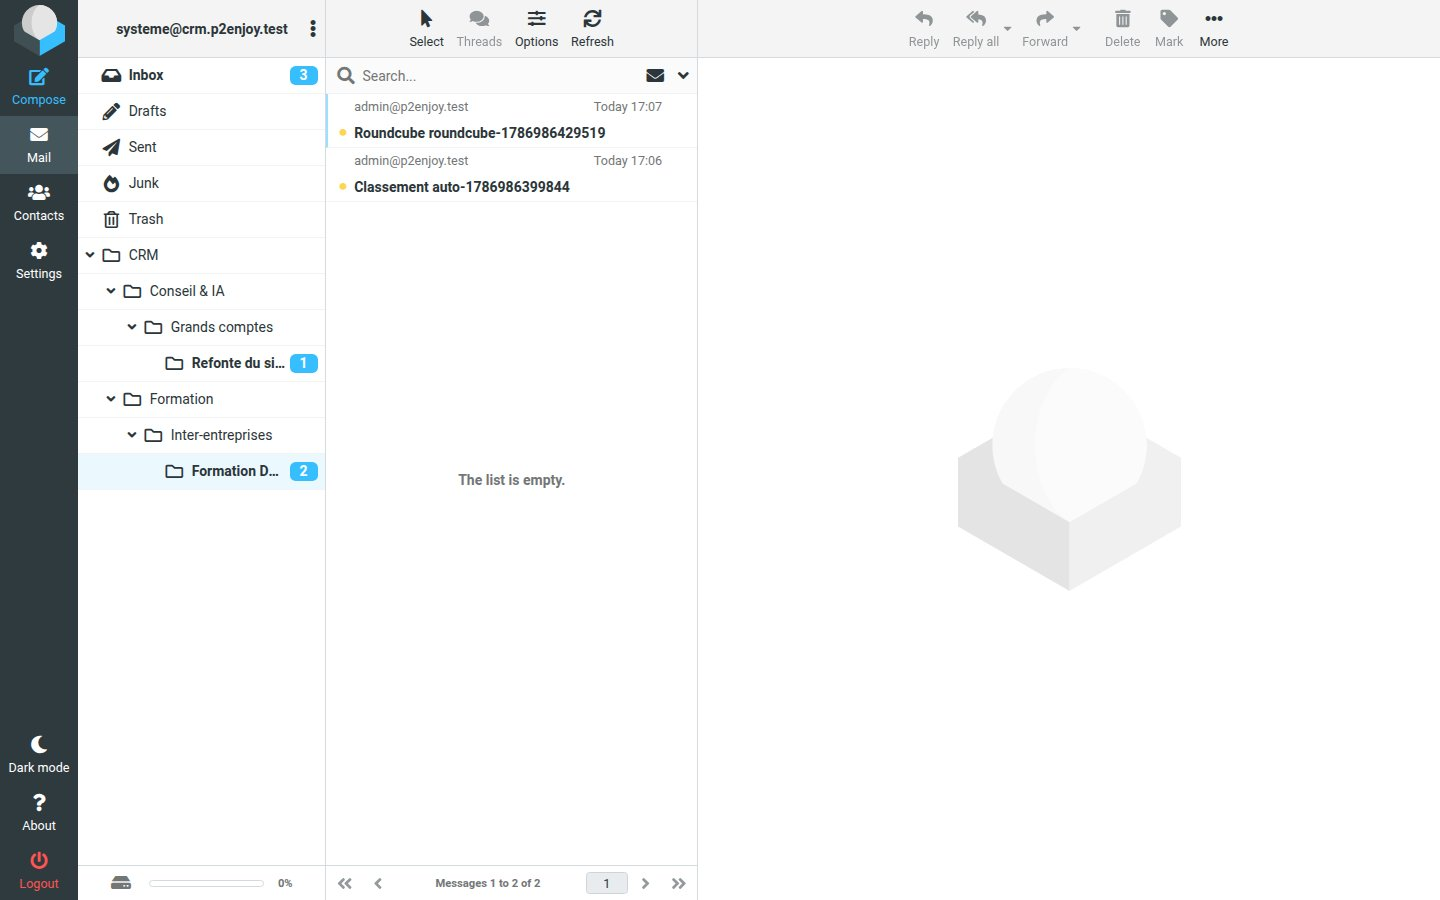
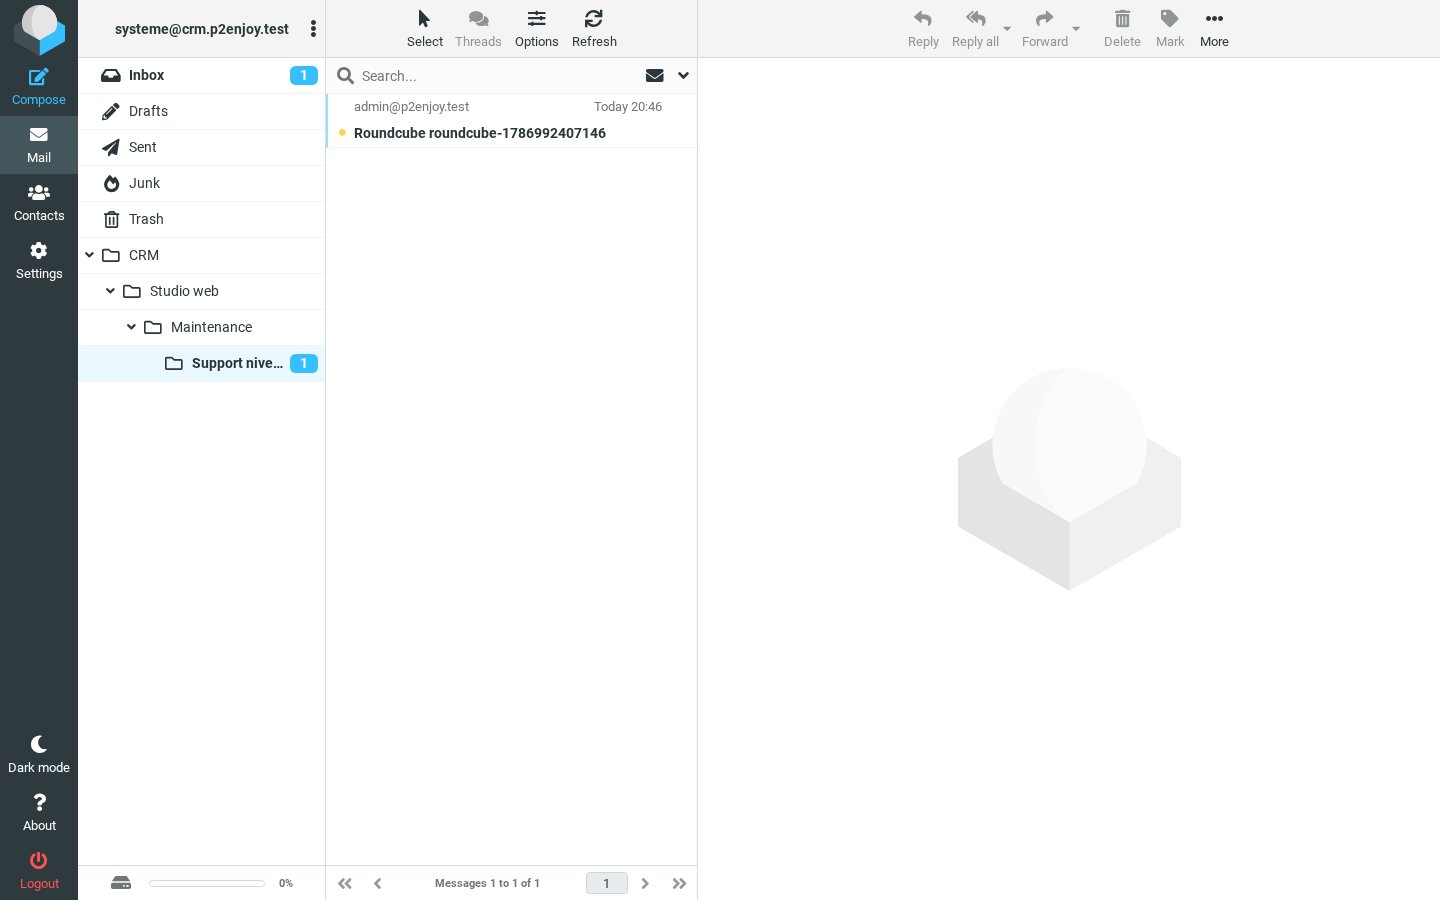
Clôt CRM-056 : sa dette a été soldée par CRM-059, et ses preuves sont vertes
L'unité restait [~] pour un seul écart : la reprise d'un rangement manqué,
tenté à la première vue d'un message et jamais rejoué. CRM-059 l'a repris à
son compte et l'a livré — la relève distingue désormais les rangements neufs
des reprises et le rapporte, une passe réelle observée ce jour rendant
filed_retried à 4. Une dette nommée dans un backlog n'est soldée que le jour où
une unité la revendique ; celle-ci l'a été, et le backlog le dit enfin.

La clôture est prononcée après exécution des preuves, non sur relecture :
verify-mail-dossiers.sh rend 37 contrôles, aucune anomalie, témoin et trois
dégradations comprises.

Une limite est levée au passage, et réécrite plutôt que retirée : « aucun écran
du produit ne montre l'arborescence » disait vrai le jour où elle a été posée,
et c'est CRM-057 qui l'a défaite en livrant l'inbox.

diff --git a/docs/BACKLOG.md b/docs/BACKLOG.md
@@ -6330,7 +6330,7 @@ classement manuel ; si `CRM-060` n'est pas livré, règle 3 désactivée et docu
 règles vivent en base et non dans le service, ce qui est le choix d'architecture du produit depuis
 `CRM-010`. L'unité reste `[~]` pour les deux écarts ci-dessus.
 
-### CRM-056 — Dossiers IMAP imbriqués `[~]`
+### CRM-056 — Dossiers IMAP imbriqués `[x]`
 Création, assainissement, renommage, labels Gmail, `mail_folder_map`.
 **DoD** : intégration vérifiant l'arborescence **par un client IMAP** ; observation visuelle dans
 Roundcube ; renommage d'un track propageant le renommage du dossier.
@@ -6404,19 +6404,28 @@ Roundcube ; renommage d'un track propageant le renommage du dossier.
       déplacement.
 - [x] **Compteurs révisés** : 27 → **28** fichiers SQL, 1843 → **1861** assertions,
       35 → **38** scénarios `mail`.
-- [ ] **La reprise d'un rangement manqué n'est pas livrée** : le rangement est tenté à la
-      **première** vue d'un message, et un refus est journalisé sans être rejoué. La reprise
-      appartient à `CRM-059`.
+- [x] **LA REPRISE D'UN RANGEMENT MANQUÉ EST LIVRÉE — dette soldée par `CRM-059`, constatée ici le
+      2026-08-14.** L'écart annonçait un rangement tenté à la **première** vue d'un message et un
+      refus journalisé sans être rejoué ; `CRM-059` l'a repris à son compte et l'a livré. La relève
+      distingue désormais les rangements neufs des reprises, et le rapporte : une passe réelle
+      observée ce jour rend `filed_retried: 4`. Une dette nommée dans un backlog n'est soldée que
+      le jour où une unité la revendique — celle-ci l'a été.
 
 *DoD adaptée, écarts explicites.* La Definition of Done demandait « intégration vérifiant
 l'arborescence **par un client IMAP** ; observation visuelle dans Roundcube ; renommage d'un track
-propageant le renommage du dossier ». **Les trois sont tenues.** L'unité reste `[~]` pour le seul
-écart ci-dessus, porté par une unité nommée.
+propageant le renommage du dossier ». **Les trois sont tenues**, et le seul écart qui maintenait
+l'unité à `[~]` — la reprise d'un rangement manqué — a été soldé par `CRM-059`.
+
+**PASSÉE À `[x]` LE 2026-08-14**, après exécution de ses preuves et non sur relecture :
+`scripts/verify-mail-dossiers.sh` rend **37 contrôles, aucune anomalie**, témoin et trois
+dégradations comprises.
 
 *Limites nommées, non masquées.*
 
-- **Aucun écran du produit** ne montre l'arborescence : Roundcube reste le seul moyen de
-  vérification visuelle tant que `CRM-057` n'existe pas.
+- **L'écran du produit existe depuis `CRM-057`** : l'inbox globale montre l'arborescence
+  Track → Channel → Card. Roundcube n'est donc plus le seul moyen de vérification visuelle, et cette
+  limite est levée. Elle est réécrite plutôt que retirée : elle disait vrai le jour où elle a été
+  posée, et c'est l'unité suivante qui l'a défaite.
 - **Les labels Gmail sont détectés, jamais exercés** : aucun serveur à labels n'existe dans la
   pile de développement, et la détection est éprouvée sur un serveur simulé.
 - **Un rangement manqué n'est pas rejoué** (voir ci-dessus).
